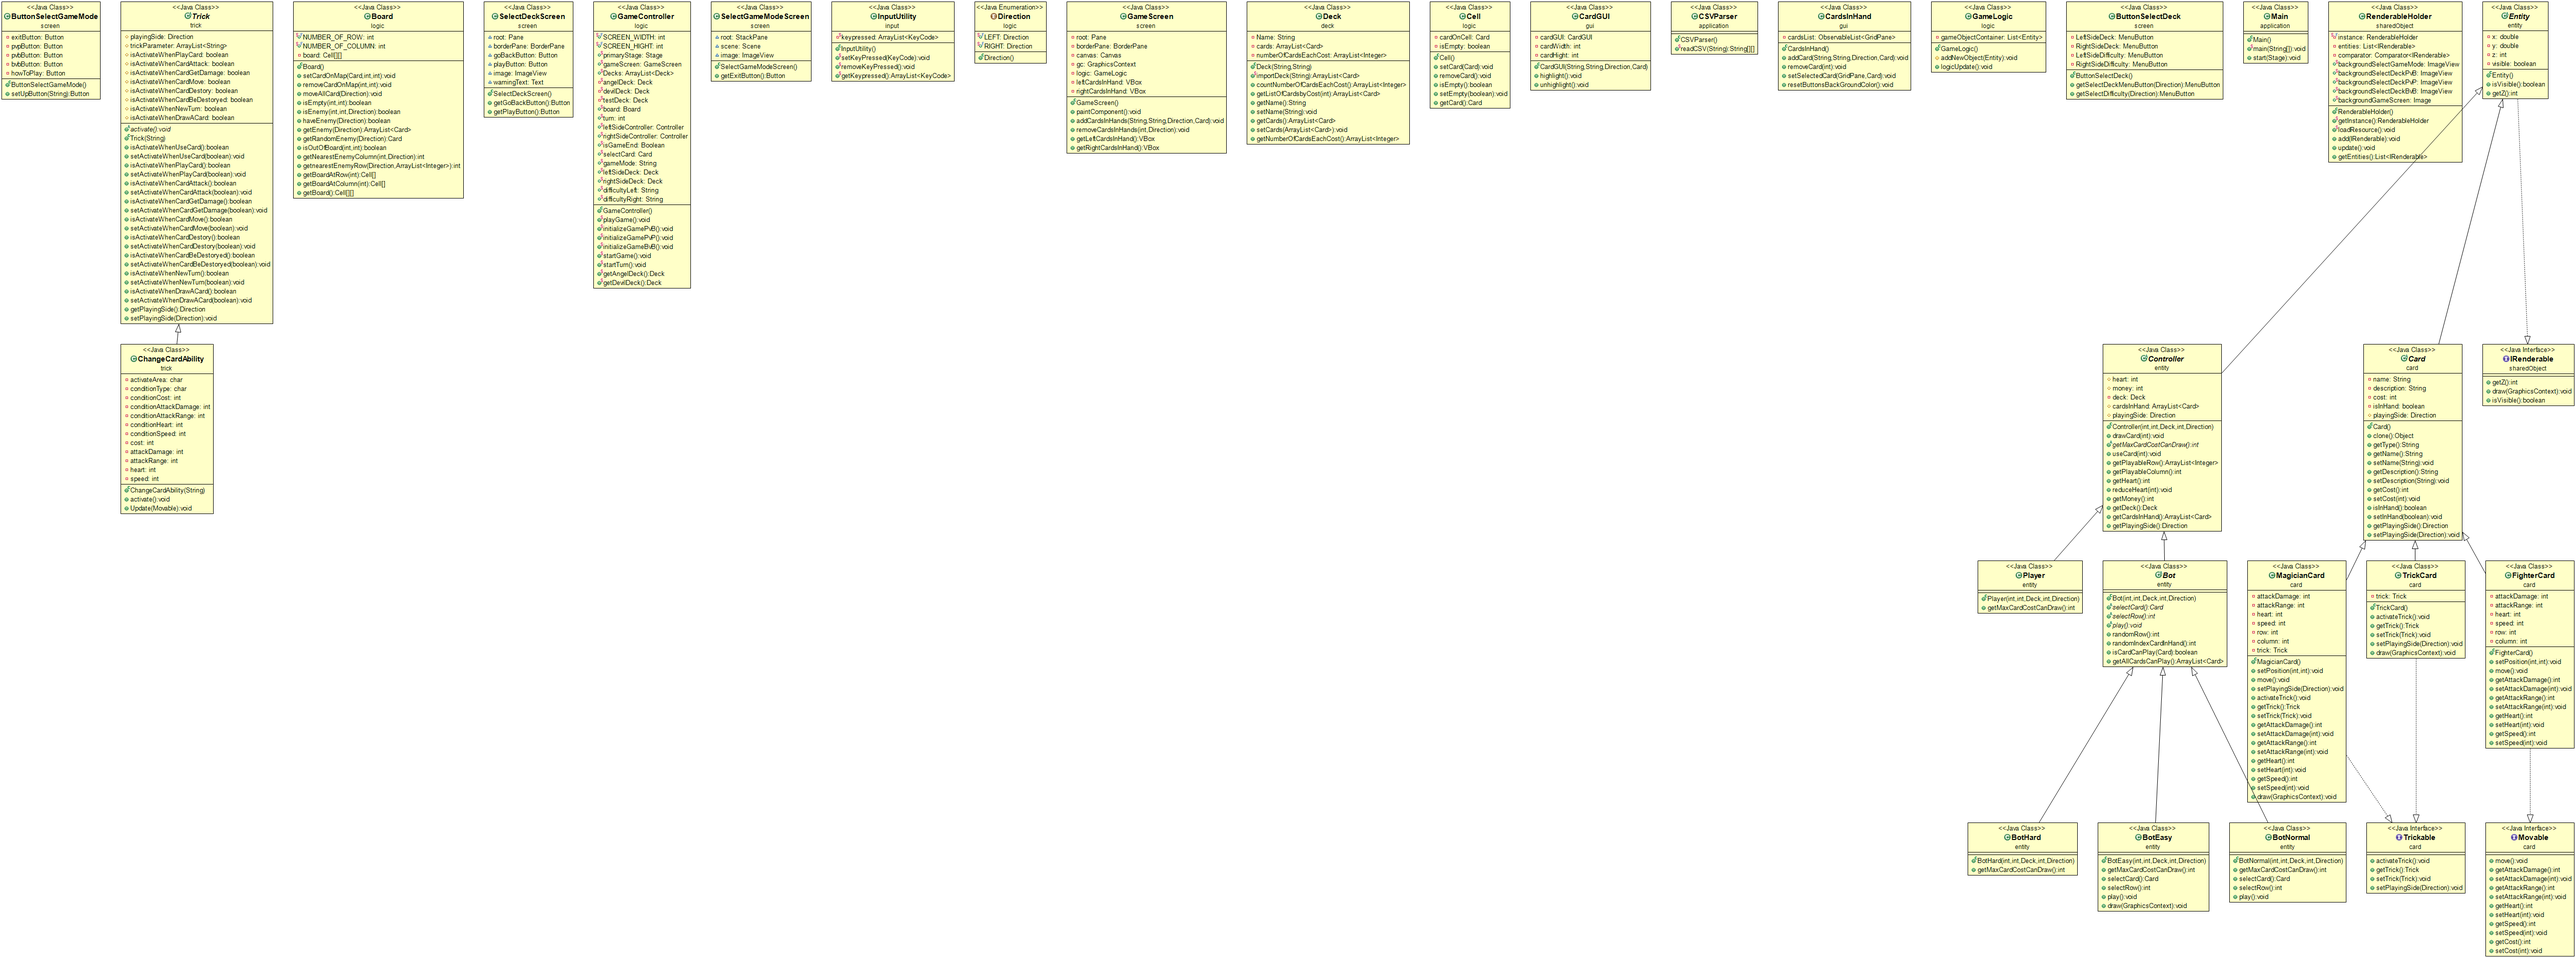
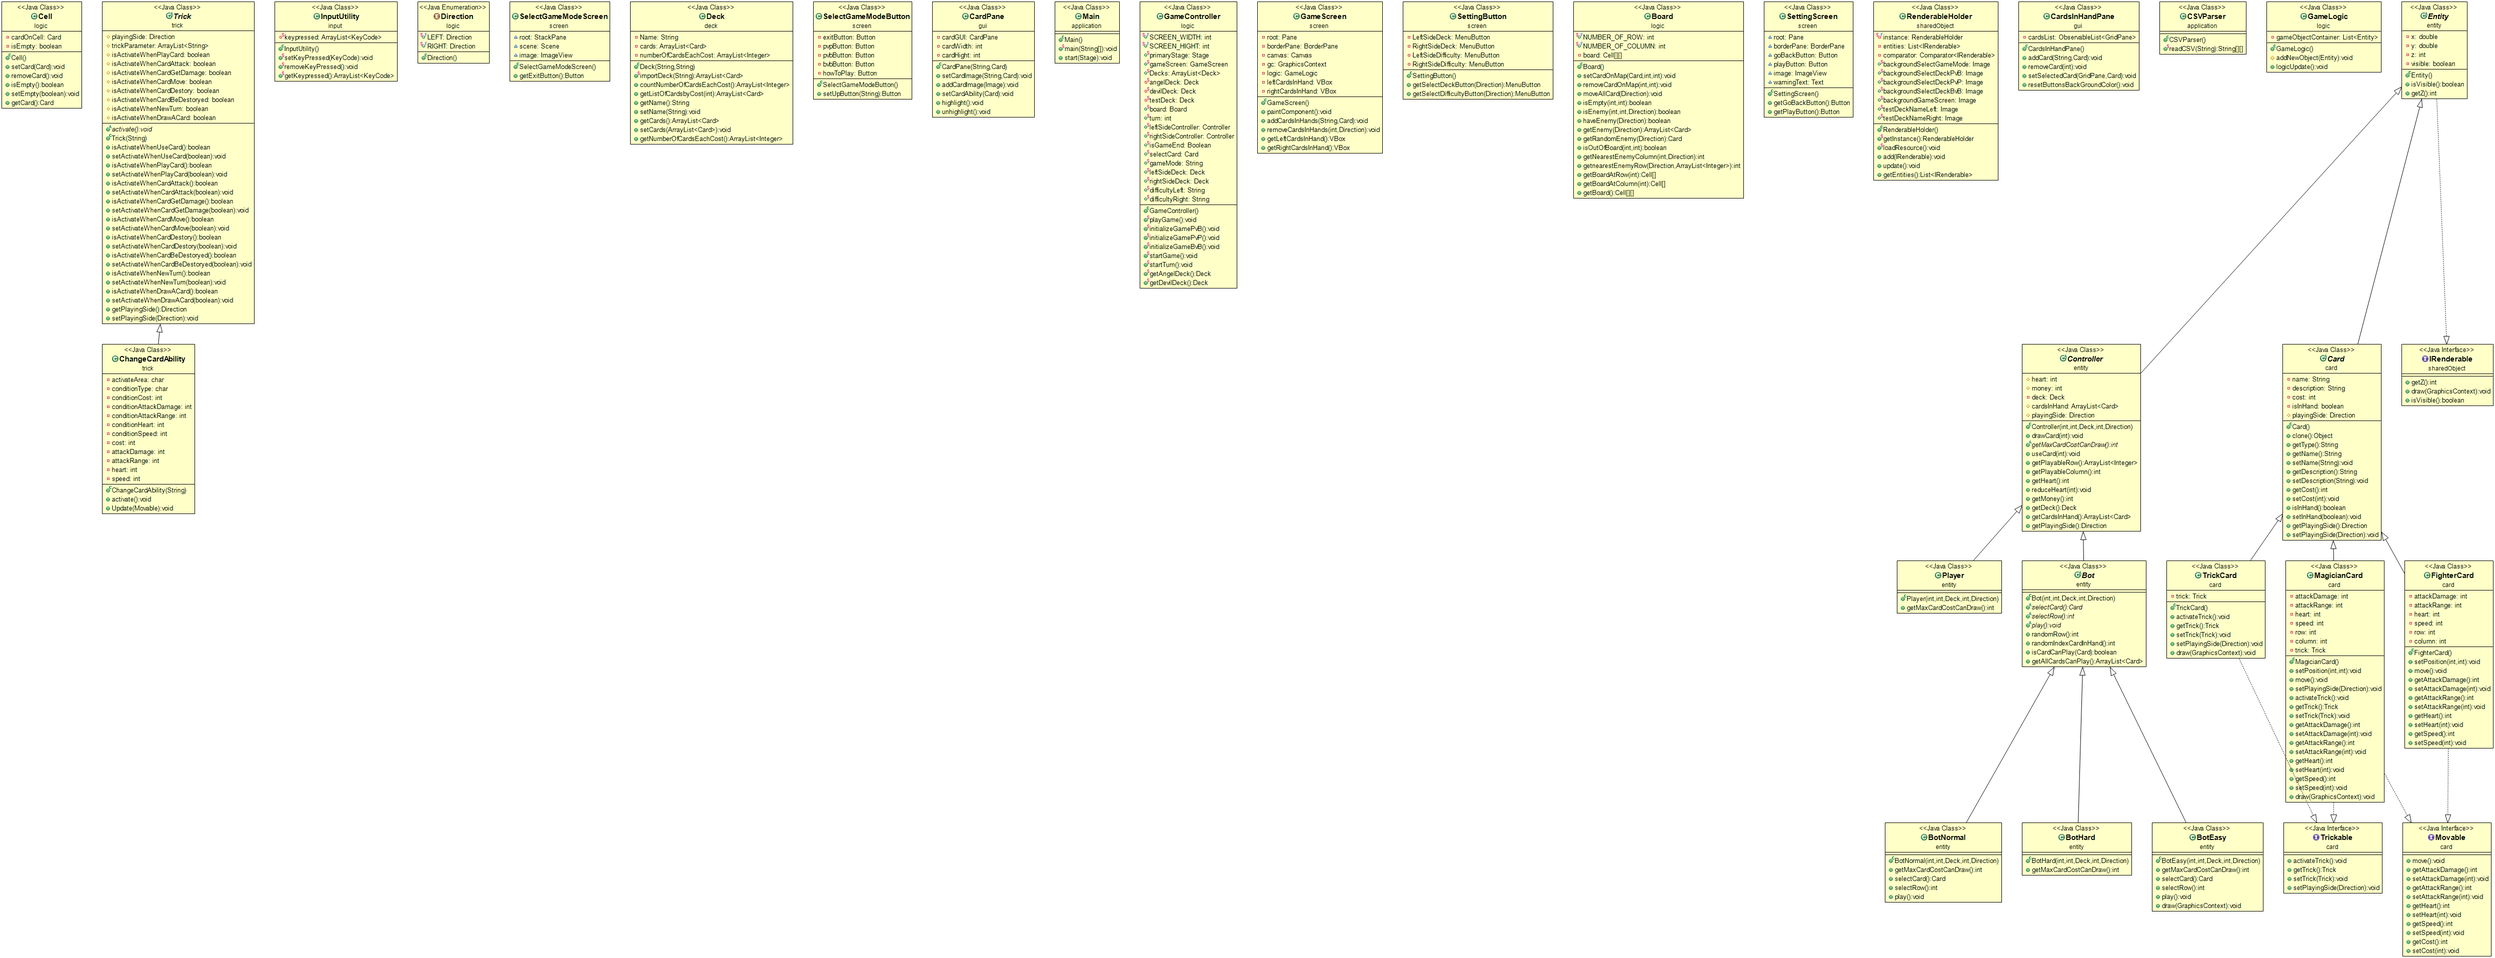
Update CardPane GUI

Changed region(s): [[0.0, 0.0, 0.9942, 0.5543], [0.7456, 0.3387, 1.0, 1.0], [0.8078, 0.3387, 0.8699, 0.5543]]

diff --git a/src/gui/CardPane.java b/src/gui/CardPane.java
@@ -1,13 +1,16 @@
 package gui;
 
 import card.Card;
+import card.Movable;
 import javafx.event.EventHandler;
+import javafx.geometry.HPos;
 import javafx.geometry.Insets;
 import javafx.geometry.Pos;
 import javafx.scene.canvas.Canvas;
 import javafx.scene.canvas.GraphicsContext;
 import javafx.scene.control.Button;
 import javafx.scene.effect.InnerShadow;
+import javafx.scene.image.Image;
 import javafx.scene.image.ImageView;
 import javafx.scene.input.MouseEvent;
 import javafx.scene.layout.Background;
@@ -19,8 +22,12 @@ import javafx.scene.layout.BorderWidths;
 import javafx.scene.layout.CornerRadii;
 import javafx.scene.layout.GridPane;
 import javafx.scene.layout.Pane;
+import javafx.scene.layout.RowConstraints;
 import javafx.scene.layout.StackPane;
 import javafx.scene.paint.Color;
+import javafx.scene.text.Font;
+import javafx.scene.text.FontWeight;
+import javafx.scene.text.Text;
 import logic.Direction;
 import logic.GameController;
 import sharedObject.RenderableHolder;
@@ -30,7 +37,7 @@ public class CardPane extends GridPane {
 	private int cardWidth = 130;
 	private int cardHight = 58;
 
-	public CardPane(String deckName, String cardtype, Direction playingSide, Card card) {
+	public CardPane(String deckName, Card card) {
 		this.setPrefSize(cardWidth, cardHight);
 		this.setAlignment(Pos.CENTER);
 		this.setBackground(new Background(new BackgroundFill(Color.WHITE, new CornerRadii(3), new Insets(3))));
@@ -39,7 +46,7 @@ public class CardPane extends GridPane {
 		this.setOnMouseClicked(new EventHandler<MouseEvent>() {
 			@Override
 			public void handle(MouseEvent arg0) { // TODO can't select if not your turn
-				switch (playingSide) {
+				switch (card.getPlayingSide()) {
 				case LEFT:
 					((CardsInHandPane) GameController.gameScreen.getLeftCardsInHand()).setSelectedCard(cardGUI, card);
 					break;
@@ -48,10 +55,14 @@ public class CardPane extends GridPane {
 					break;
 				}
 			}
-
 		});
+		setCardImage(deckName, card);
+		setCardAbility(card);
+		this.setGridLinesVisible(true);
+		this.getRowConstraints().add(new RowConstraints(cardHight/3));
+	}
 
-		System.out.println("DRAW");
+	public void setCardImage(String deckName, Card card) {
 		switch (deckName) {
 //		case "Angel":
 //			switch (cardtype) {
@@ -104,8 +115,7 @@ public class CardPane extends GridPane {
 //			}
 //			break;
 		default: // TODO remove when finish
-			System.out.println("Test");
-			switch (cardtype) {
+			switch (card.getType()) {
 //			case "Fighter":
 //				if (playingSide == Direction.LEFT) {
 //					this.getChildren().add(RenderableHolder.TestDeckNameLeft);
@@ -121,18 +131,10 @@ public class CardPane extends GridPane {
 //				}
 //				break;
 			default:
-				if (playingSide == Direction.LEFT) {
-					ImageView imageView = new ImageView(RenderableHolder.testDeckNameLeft);
-					imageView.setPreserveRatio(true);
-					imageView.setFitWidth(cardWidth);
-					imageView.setFitHeight(cardHight);
-					this.add(imageView, 0, 0);
+				if (card.getPlayingSide() == Direction.LEFT) {
+					addCardImage(RenderableHolder.testDeckNameLeft);
 				} else {
-					ImageView imageView = new ImageView(RenderableHolder.testDeckNameRight);
-					imageView.setPreserveRatio(true);
-					imageView.setFitWidth(cardWidth);
-					imageView.setFitHeight(cardHight);
-					this.add(imageView, 0, 0);
+					addCardImage(RenderableHolder.testDeckNameRight);
 				}
 				break;
 			}
@@ -140,8 +142,52 @@ public class CardPane extends GridPane {
 		}
 	}
 
+	public void addCardImage(Image image) {
+		ImageView imageView = new ImageView(image);
+		imageView.setPreserveRatio(true);
+//		imageView.setFitWidth(cardWidth);
+		imageView.setFitHeight(cardHight);
+		this.add(imageView, 0, 0, 3, 3);
+	}
+
+	public void setCardAbility(Card card) {
+		Text cost = new Text();
+		cost.setFont(Font.font("Arial", FontWeight.BOLD, 10));
+		cost.setText("C:"+card.getCost());
+		cost.setFill(Color.BLACK);
+		this.add(cost, 3, 0, 2, 1);
+		GridPane.setHalignment(cost, HPos.CENTER);
+		if (card instanceof Movable) {
+			Text attackDamage = new Text();
+			attackDamage.setFont(Font.font("Arial", FontWeight.BOLD, 10));
+			attackDamage.setText("A:"+((Movable) card).getAttackDamage());
+			attackDamage.setFill(Color.BLACK);
+			this.add(attackDamage, 3, 1);
+			GridPane.setHalignment(attackDamage, HPos.CENTER);
+			Text attackRange = new Text();
+			attackRange.setFont(Font.font("Arial", FontWeight.BOLD, 10));
+			attackRange.setText("R:"+((Movable) card).getAttackRange());
+			attackRange.setFill(Color.BLACK);
+			this.add(attackRange, 4, 1);
+			GridPane.setHalignment(attackRange, HPos.CENTER);
+			Text heart = new Text();
+			heart.setFont(Font.font("Arial", FontWeight.BOLD, 10));
+			heart.setText("H:"+((Movable) card).getHeart());
+			heart.setFill(Color.BLACK);
+			this.add(heart, 3, 2);
+			GridPane.setHalignment(heart, HPos.CENTER);
+			Text speed = new Text();
+			speed.setFont(Font.font("Arial", FontWeight.BOLD, 10));
+			speed.setText("S:"+((Movable) card).getSpeed());
+			speed.setFill(Color.BLACK);
+			this.add(speed, 4, 2);
+			GridPane.setHalignment(speed, HPos.CENTER);
+		}
+	}
+
 	public void highlight() {
-		this.setBackground(new Background(new BackgroundFill(Color.LIGHTGOLDENRODYELLOW, CornerRadii.EMPTY, new Insets(3))));
+		this.setBackground(
+				new Background(new BackgroundFill(Color.LIGHTGOLDENRODYELLOW, CornerRadii.EMPTY, new Insets(3))));
 		this.setBorder(new Border(
 				new BorderStroke(Color.GOLD, BorderStrokeStyle.SOLID, new CornerRadii(3), new BorderWidths(3))));
 	}

diff --git a/src/screen/GameScreen.java b/src/screen/GameScreen.java
@@ -69,13 +69,13 @@ public class GameScreen {
 		}
 	}
 
-	public void addCardsInHands(String deckName, String cardtype, Direction playingSide, Card card) {
-		switch (playingSide) {
+	public void addCardsInHands(String deckName, Card card) {
+		switch (card.getPlayingSide()) {
 		case LEFT:
-			((CardsInHandPane) leftCardsInHand).addCard(deckName, cardtype, playingSide, card);
+			((CardsInHandPane) leftCardsInHand).addCard(deckName, card);
 			break;
 		case RIGHT:
-			((CardsInHandPane) rightCardsInHand).addCard(deckName, cardtype, playingSide, card);
+			((CardsInHandPane) rightCardsInHand).addCard(deckName, card);
 			break;
 		}
 	}

diff --git a/src/entity/Controller.java b/src/entity/Controller.java
@@ -56,11 +56,10 @@ public abstract class Controller extends Entity {
 							Card card = (Card) getDeck().getListOfCardsbyCost(costOfCard).get(indexOfCard).clone();
 							card.setPlayingSide(playingSide);
 							cardsInHand.add(card);
-							GameController.gameScreen.addCardsInHands(deck.getName(), card.getType(), playingSide,
-									card);
+							GameController.gameScreen.addCardsInHands(deck.getName(), card);
 						}
 					});
-					Thread.sleep(500); //Delay 0.5 second
+					Thread.sleep(500); // Delay 0.5 second
 				}
 			} catch (InterruptedException e) {
 				e.printStackTrace();

diff --git a/src/gui/CardsInHandPane.java b/src/gui/CardsInHandPane.java
@@ -27,8 +27,8 @@ public class CardsInHandPane extends VBox {
 		this.setBackground(new Background(new BackgroundFill(Color.SIENNA, new CornerRadii(5), Insets.EMPTY)));
 	}
 
-	public void addCard(String deckName, String cardtype, Direction playingSide, Card card) {
-		CardPane cardGUI = new CardPane(deckName, cardtype, playingSide, card);
+	public void addCard(String deckName, Card card) {
+		CardPane cardGUI = new CardPane(deckName, card);
 		this.getChildren().add(cardGUI);
 		cardsList.add(cardGUI);
 	}
